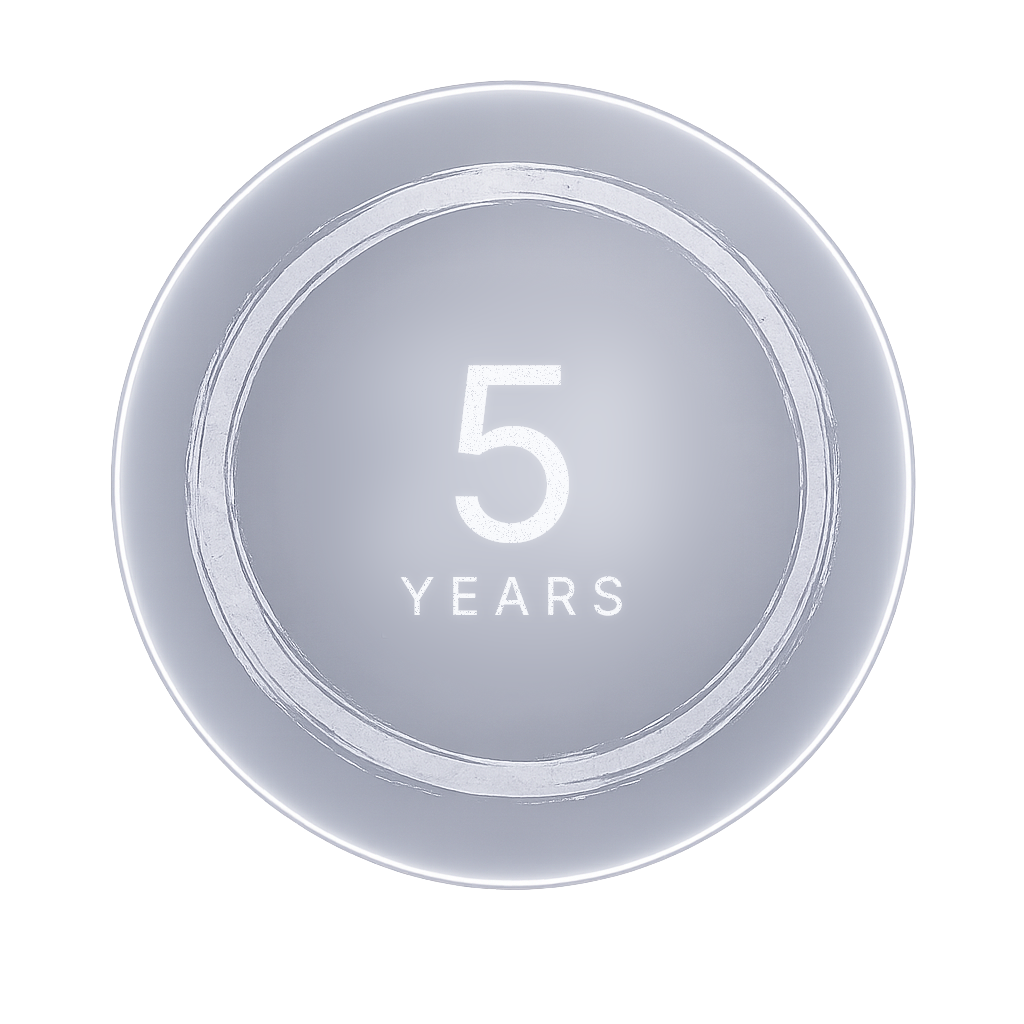
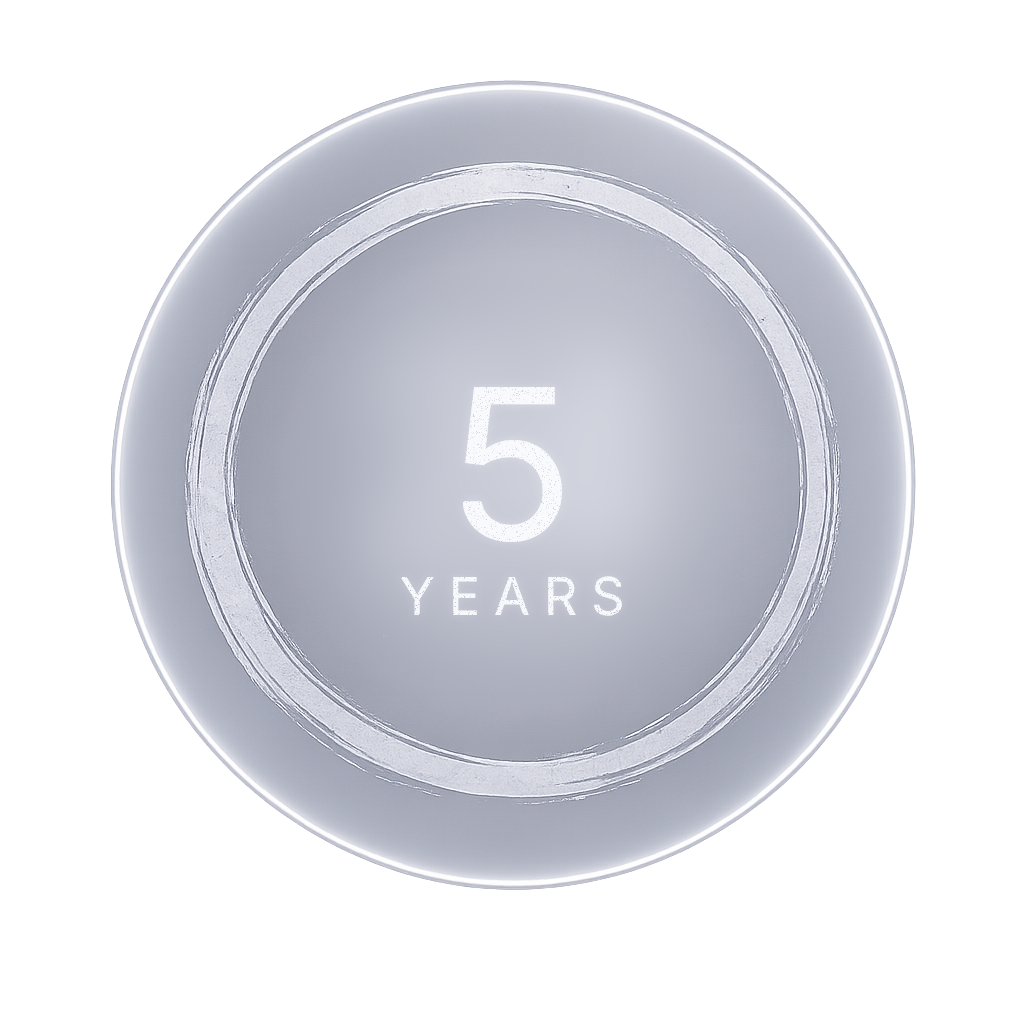
Visual-match single-digit numerals to two-digit ones
A solo "6" at the same font-size as "24" reads bigger because all the
visual weight sits in one chunky character instead of being split. Drop
1-digit numerals to 210px (vs 240px for 2-digit) so they feel the same
on the disc. Cap-height comes out ~155px vs ~178px, which lands the two
groups within visual-matching range.

https://claude.ai/code/session_01TqmVcPLJNZuf7Q6XCPWgNk

Changed region(s): [[0.4375, 0.3438, 0.5625, 0.5312]]

diff --git a/scripts/measure-text.ts b/scripts/measure-text.ts
@@ -1,0 +1,44 @@
+import { loadImage, createCanvas } from '@napi-rs/canvas'
+import path from 'node:path'
+
+const dir = '/home/user/sobrcircle-site/public/badges/v1/preview'
+const files = ['24hours-silver.png', '6months-silver.png', '18months-silver.png', '1year-silver.png', '5years-silver.png']
+
+// Detect the vertical extent of bright (text) pixels in the numeral row band
+async function measure(fp: string) {
+  const img = await loadImage(fp)
+  const w = img.width
+  const h = img.height
+  const c = createCanvas(w, h)
+  const ctx = c.getContext('2d')
+  ctx.drawImage(img, 0, 0)
+  const data = ctx.getImageData(0, 0, w, h).data
+  // Scan the numeral band (above the label) — the numeral baseline is 540
+  // and the cap height roughly extends from y=370 to y=540.
+  const minY = 350
+  const maxY = 555
+  let topMostBright = h
+  let bottomMostBright = 0
+  let leftMostBright = w
+  let rightMostBright = 0
+  // a pixel is "text" if it's noticeably brighter than the disc gray (~175 avg)
+  for (let y = minY; y < maxY; y++) {
+    for (let x = 350; x < 700; x++) {
+      const i = (y * w + x) * 4
+      const a = data[i + 3]
+      if (a < 200) continue
+      const lum = (data[i] + data[i + 1] + data[i + 2]) / 3
+      if (lum > 230) {
+        if (y < topMostBright) topMostBright = y
+        if (y > bottomMostBright) bottomMostBright = y
+        if (x < leftMostBright) leftMostBright = x
+        if (x > rightMostBright) rightMostBright = x
+      }
+    }
+  }
+  console.log(`${path.basename(fp).padEnd(22)} numeral bbox: x=${leftMostBright}-${rightMostBright}  y=${topMostBright}-${bottomMostBright}  height=${bottomMostBright - topMostBright}px  width=${rightMostBright - leftMostBright}px`)
+}
+
+for (const f of files) {
+  await measure(path.join(dir, f))
+}

diff --git a/scripts/generate-badges.ts b/scripts/generate-badges.ts
@@ -114,11 +114,11 @@ function distressLayer(canvas: any, bbox: { x: number; y: number; w: number; h: 
   ctx.putImageData(img, bbox.x, bbox.y)
 }
 
-// All badges use the same numeral size, label size, and baseline positions
-// regardless of how many characters are in the duration. This keeps the
-// look uniform across the full set — "6 MONTHS" and "12 MONTHS" sit at
-// the same vertical position with the same character height.
-const BIG_SIZE = 240
+// Visual size matching: a single chunky "6" carries all the visual weight
+// in one character, so at the same font-size as "24" it reads bigger. Drop
+// 1-digit numerals about 12% so they feel the same on the disc.
+const BIG_SIZE_DOUBLE = 240
+const BIG_SIZE_SINGLE = 210
 const LABEL_SIZE = 52
 const LABEL_TRACKING = 14
 const NUMERAL_BASELINE = 540
@@ -129,14 +129,15 @@ function drawText(ctx: SKRSContext2D, d: Duration) {
   const lctx = layer.getContext('2d')
   lctx.fillStyle = 'rgba(252, 253, 255, 0.95)'
 
-  drawCenteredText(lctx, d.big, CX, NUMERAL_BASELINE, BIG_SIZE, 200)
+  const bigSize = d.big.length === 1 ? BIG_SIZE_SINGLE : BIG_SIZE_DOUBLE
+  drawCenteredText(lctx, d.big, CX, NUMERAL_BASELINE, bigSize, 200)
   drawCenteredText(lctx, d.label, CX, LABEL_BASELINE, LABEL_SIZE, 400, LABEL_TRACKING)
 
   distressLayer(layer, {
     x: CX - 290,
-    y: NUMERAL_BASELINE - BIG_SIZE,
+    y: NUMERAL_BASELINE - BIG_SIZE_DOUBLE,
     w: 580,
-    h: BIG_SIZE + 160,
+    h: BIG_SIZE_DOUBLE + 160,
   })
 
   ctx.save()
